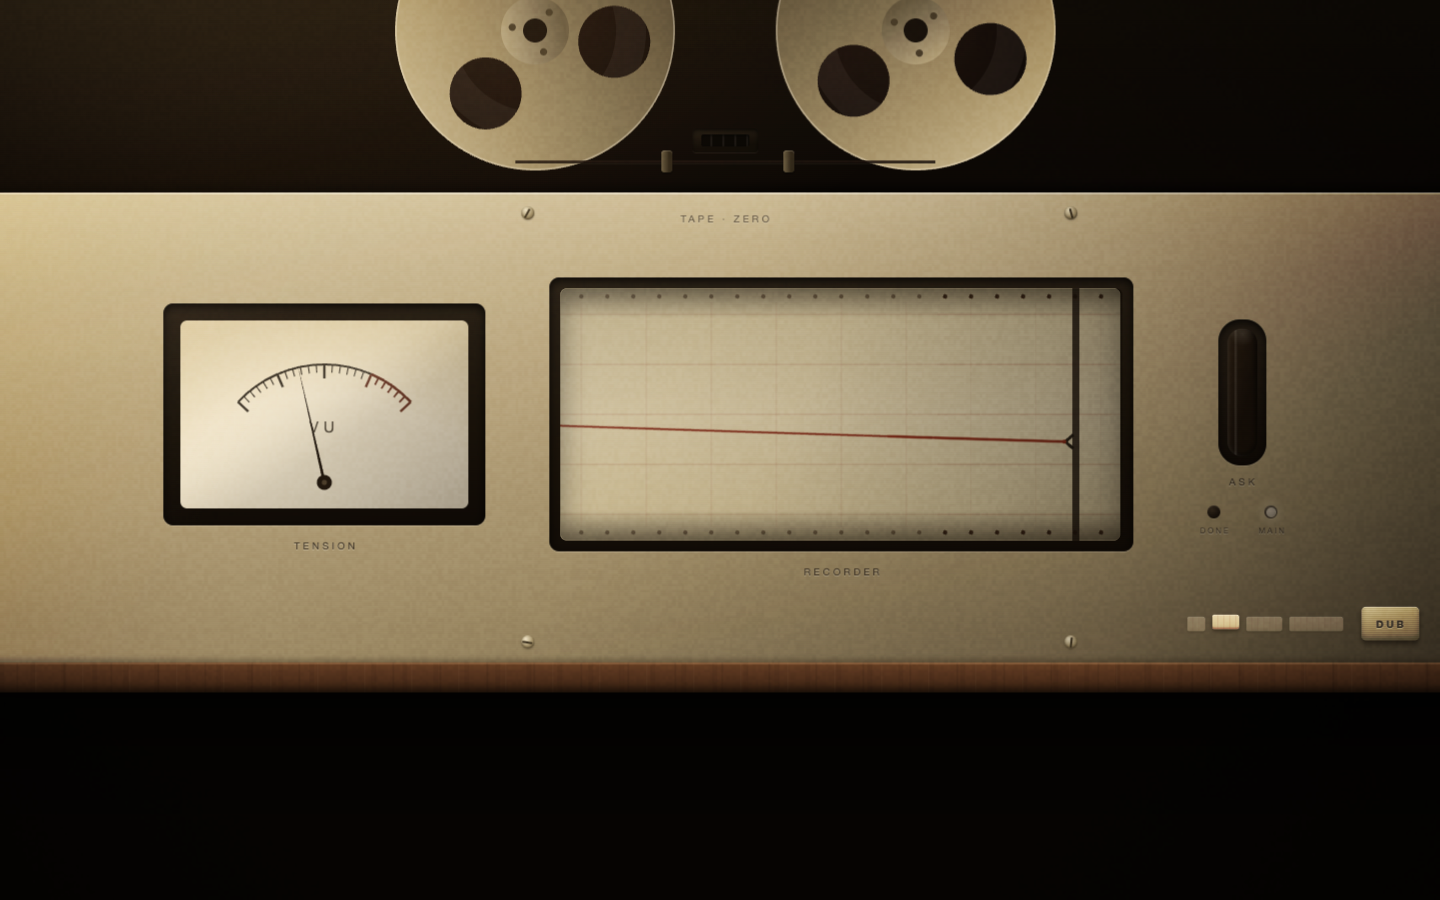
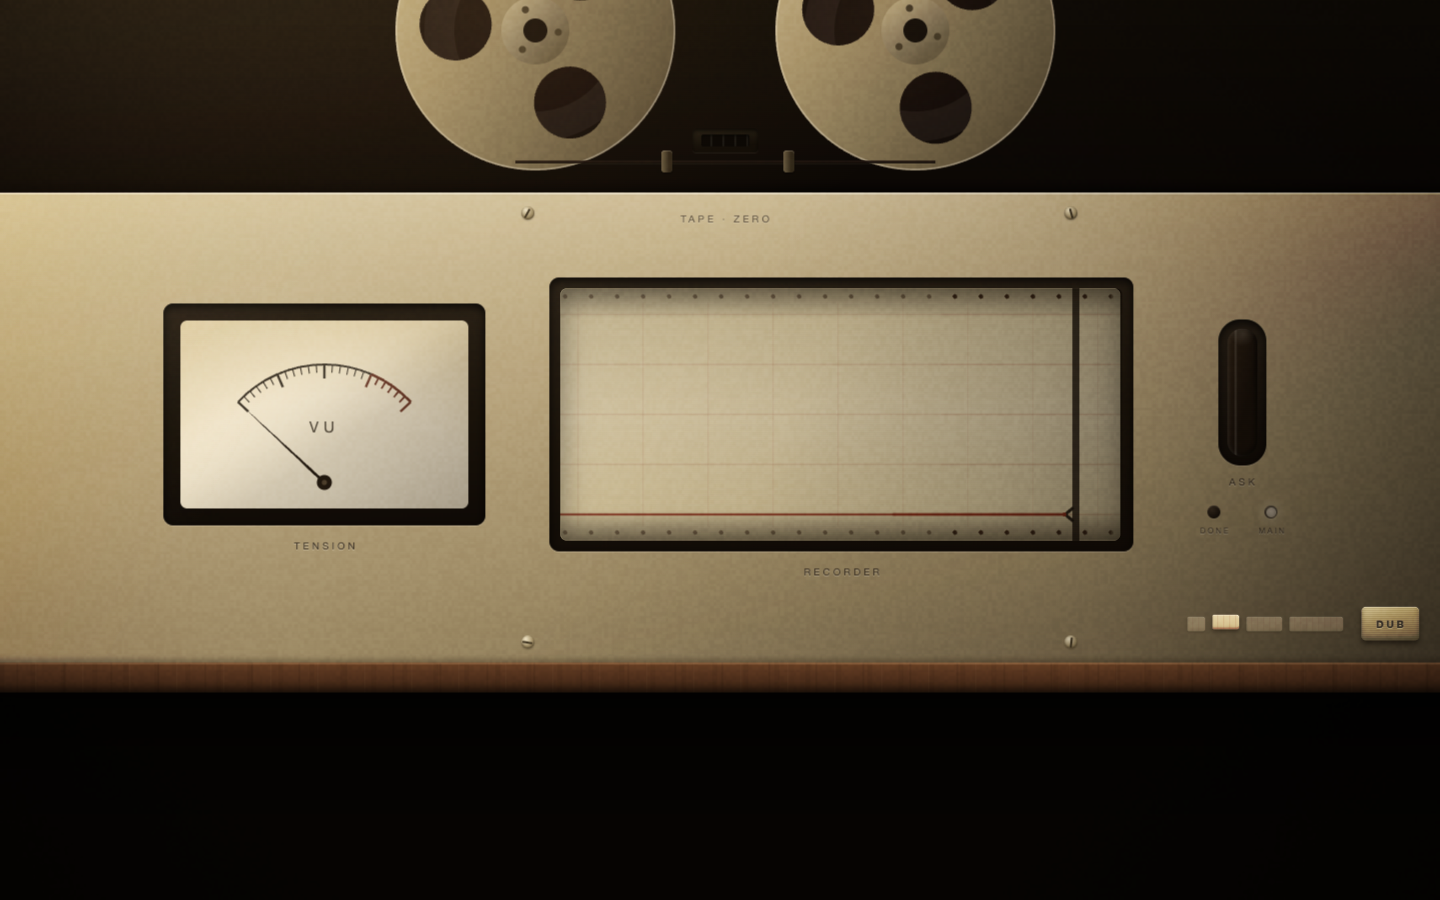
轨甲 己-2：rebase 新 main（吸收轨丙）＋姊妹条款双形态归档补签
DECREE-004 己-2 执行：
- git rebase main（79137a3，含轨丙 B4 factory 回退＋脱敏契约 v1＋audit/repro）零冲突
  （围栏零文件重叠）；代码字节与原提交一致。金测试 133/133（128 轨丙后+5 LIVE，零回潮）。
- 姊妹条款（003 丁-②）双形态归档：B4 合入 serve.mjs 后，干净 worktree 与 npm pack
  皆经 ~/.foley/records/factory/ 回退**自动放唱片，无需手拷 mp3**——
  · shots-clean/：干净树 live/replay 双路 Still Life 真上桥 peak 0.154/0.146，唱片上桥×2
  · shots-pack/：包内 wav/mp3 全缺席，双路 Still Life 真上桥 peak 0.143/0.157，唱片上桥×2
  对比 B4 前打包态 recordInfo=None（纯合成）——B4×热装合力兑现。
  旧 shots/（B4 前 dev 无唱片）、shots-record/（手拷 mp3）删除取代。
- REPORT/FEEDBACK 更新：证据表重列、兵器申报改判入册（004 乙照准立案）、复跑手册去手拷步。

发现·非轨甲（报请操作员/轨丙）：main 自带 tsc 3 处 TS7006 于轨丙
golden/redaction-contract.test.ts:42/44（未标注参数类型）——己-5 合后 tsc 复跑拦路项，
围栏纪律不代修他轨文件，据实上报。

diff --git a/audit/a-live/REPORT.md b/audit/a-live/REPORT.md
@@ -1,7 +1,7 @@
 # 轨甲交付报告 · 主水管（live 流式出声）
 
-- **奉令**：《派生手册》§3 轨甲卡＋《第三号手令》丁-轨甲修订（总线一元论拆除；好资产保护清单；机器代理验收增补）＋《第二号手令》增补一（worktree 建制）/增补三（接口先行）。
-- **施工环境**：worktree `track/a-live`（基于 main=`8c7a198`）；代码锚 `e7e28d7`。
+- **奉令**：《派生手册》§3 轨甲卡＋《第三号手令》丁-轨甲修订（总线一元论拆除；好资产保护清单；机器代理验收增补）＋《第二号手令》增补一（worktree 建制）/增补三（接口先行）＋《第四号手令》己-2（rebase 新 main·姊妹条款双形态归档）。
+- **施工环境**：worktree `track/a-live`；**己-2 已 rebase 至新 main=`79137a3`**（吸收轨丙 B4 factory 回退＋脱敏契约 v1＋audit/repro）；代码锚 `d5340a9`＋`87f2928`（rebase 后，代码字节与原 `e7e28d7`/`875f6d5` 一致）。
 - **真实材料申明**：浏览器验收的 live 模式尾随**本机最新真实会话**（即本施工会话自身，serve `--latest` 默认解析）；打包形态用其副本（临时目录，即用即删）。storm 仅出现在"回放保绿"回归项（G8 正门参数原样）。
 - **边界申明**：写面=`sound/`（livebridge 新增、offline 耳膜修真）＋`stage/js/`（soundbridge 重铸、main 接线、demo-boot 适配）＋`golden/live-sound.test.ts`＋本目录。**graph.js/core.js 一行未动；serve.mjs 零改动**（避让轨丙 B4 手术台）；协议契约 v1 零增改。
 - **诚实界限**：本报告一切"出声"结论以 master 总线旁挂 AnalyserNode 实测 RMS 为证（机器代理管回归）；**人耳终审权在船长/审计庭**（验收最高法，需真人录音）。
@@ -32,19 +32,23 @@
 
 ## 二、证据表
 
+> **己-2 后证据全部基于新 main=`79137a3`**（含轨丙 B4 factory 回退）。旧证据（`shots/`＝B4 前 dev 无唱片、`shots-record/`＝手拷 mp3）已被 `shots-clean/`（B4 后干净树自动放唱片）取代删除——B4 前须手拷、B4 后自动，此即姊妹条款兑现。
+
 | # | 判据 | 结果 | 证据 |
 |---|---|---|---|
-| 1 | 金测试全量（好资产回归门） | **121/121 全绿**（116 在库＋5 新 LIVE 门），tsc 干净 | `npm test`（21.5s）；在库 55/57/59 唱片机芯全过=引擎零殃及 |
+| 1 | 金测试全量（吸收轨丙后回归门） | **133/133 全绿**（128 轨丙后在库＋5 新 LIVE 门），我 5 条零回潮 | `npm test`（21.2s）；在库 55/57/59 唱片机芯全过=引擎零殃及 |
 | 2 | LIVE-1 命门机器代理 | 流式 60s 两窗 RMS>−40dBFS（合成退路条件） | `golden/live-sound.test.ts`（离线确定性，回归门常设） |
 | 3 | LIVE-2 双通道 | pluck onset 落网格线 ±20ms 且不早于到达；ASK onset 20.32s 直通（网格线 20.54 之前） | 同上（波形 onset 断言） |
-| 4 | 浏览器 live 出声（dev 形态） | **手势后 0.25s 首声**，RMS avg 0.059/peak 0.085，PAGEERROR=0；pre-gesture `sound=undefined`→post 在场 | `repro/live-rms.mjs` → `shots/verdicts.json` |
-| 5 | 回放保绿（好资产） | storm@8× 首声 0.25s，avg 0.059（RECON 基线 0.066 同量级） | 同上 Part B |
-| 6 | 唱片层＋热装 | live/replay 双路 recordInfo=Still Life 真上桥，console「唱片上桥」×2，peak 0.142（RECON 旁证 0.139 同量级）；唱片在位作曲四层退场（avg 回落） | `shots-record/`（vendored 位形态，mp3 即放即删） |
-| 7 | 打包形态（产品条件） | wav/mp3 全缺席＋真实会话副本：live 首声 0.25s，avg 0.056（纯合成房间层） | `shots-pack/`；npm pack→解包→FOLEY_PROJECTS 实跑 |
-| 8 | 1× 长跑（机器侧） | **600s/300 采样 soundRatio=1.0（零死寂）**；rowsMax 8162≤8192 行帐有界；pageErrors=0 | `repro/long-run.mjs` → `shots-long/long-verdict.json` |
-| 9 | 音画同源 | 结构性：画声同吃一路 feedRaw（同一根总线）；运行时：声侧收包 12018 vs 画侧铺纸 12050，**avRatio=0.9973**（差 0.27%=读数时间窗误差量级） | 代码 `main.js`＋长跑证据 |
+| 4 | **姊妹条款·干净 worktree**（己-2 补签） | 未手拷 mp3，B4 factory 回退：live/replay 双路 **Still Life 真上桥**（peak 0.154/0.146，「唱片上桥」×2），首声 0.25s，PAGEERROR=0 | `repro/live-rms.mjs` → `shots-clean/verdicts.json` |
+| 5 | **姊妹条款·npm pack**（己-2 补签） | 包内 wav/mp3 全缺席＋B4 factory 回退＋真实会话副本：双路 **Still Life 真上桥**（peak 0.143/0.157，「唱片上桥」×2），首声 0.25s | `repro/live-rms.mjs --root <解包>` → `shots-pack/verdicts.json` |
+| 6 | 回放保绿（好资产） | storm@8× 首声 0.25s（两形态 Part B 均绿，RECON 基线同量级） | `shots-clean`/`shots-pack` Part B |
+| 7 | 1× 长跑（机器侧，代码未变 carry forward） | **600s/300 采样 soundRatio=1.0（零死寂）**；rowsMax 8162≤8192 行帐有界；pageErrors=0 | `repro/long-run.mjs` → `shots-long/long-verdict.json` |
+| 8 | 音画同源 | 结构性：画声同吃一路 feedRaw（同一根总线）；运行时：声侧收包 12018 vs 画侧铺纸 12050，**avRatio=0.9973**（差 0.27%=读数时间窗误差量级） | 代码 `main.js`＋长跑证据 |
+| 9 | tsc（**发现·非轨甲**） | 我方文件净；**main 自带 3 处 TS7006** 于轨丙 `golden/redaction-contract.test.ts:42/44`（未标注参数类型）——己-5"合后 tsc 复跑"拦路项，报请轨丙/操作员修（围栏纪律：不代修他轨文件） | `npm run typecheck` |
 
-## 三、兵器申报（Tone.js 偏离，候架构师复裁）
+## 三、兵器申报（Tone.js 偏离——**架构师已照准立案，DECREE-004 乙**）
+
+> **裁决落地（004 令乙）**：偏离成立照准。增补二就地修正为"目的入宪·手段解绑"——音频主钟／网格量化／前瞻调度三目的为宪法要求，实现载体不指定；在库引擎原生满足且身负金测＋LUFS 定标，引 Tone 与 003 保护条物理冲突时**保护条优先**。Tone.js 移入冰箱为备芯，换芯点＝`sound/livebridge.js` 单文件（已记档）。案法确立：**偏离必申报·申报必附换芯点**，本报为全场范本格式。以下为原申报留档。
 
 增补二裁"音频地基采用 Tone.js"；003 令丁-轨甲改口"放行确认（备胎条款不触发）"并同令钉入**好资产保护清单**（graph/core 引擎本体保绿）。实施发现两令在物理上不可同时满足：
 
@@ -61,21 +65,22 @@
 5. **S2 网格采样 vs producer 钟 ppm 级偏斜**：行帐锚到达刻，长程无累积（长跑仪 avRatio 兜底盯防）。
 6. **唱片热装→作曲四层退场**存在 ≤1s（前瞻窗）+slew 的过渡窗，fade 平滑覆盖。
 
-## 五、复跑手册
+## 五、复跑手册（己-2 后，B4 在 main）
 
 ```
-npm ci && npm test                                    # 121/121（含 LIVE-1..5）
-node audit/a-live/repro/live-rms.mjs                  # dev 形态：live+replay 双证（需 stage/tools 装 playwright-core＋本机 ms-playwright chromium）
-cp ~/.foley/records/factory/still-life.mp3 sound/records/ && node audit/a-live/repro/live-rms.mjs --out audit/a-live/shots-record && rm sound/records/still-life.mp3   # 唱片层
-npm pack → 解包 → node audit/a-live/repro/live-rms.mjs --root <解包 package 目录>            # 打包形态
+npm ci && npm test                                    # 133/133（128 轨丙后 + 5 LIVE）
+node audit/a-live/repro/live-rms.mjs --out audit/a-live/shots-clean   # 干净 worktree：B4 factory 回退自动放唱片（需 ~/.foley/records/factory 有唱片＝foley records 已下载；stage/tools 装 playwright-core＋本机 ms-playwright chromium）
+npm pack → 解包 → node audit/a-live/repro/live-rms.mjs --root <解包 package 目录> --out audit/a-live/shots-pack   # 打包形态：同经 B4 factory 回退
 node audit/a-live/repro/long-run.mjs --sec 600        # 1× 长跑仪
 ```
-收摊纪律：脚本自起自收 serve（直属子进程 SIGINT），全程无 pkill 模式串（003 令甲.3）。
+姊妹条款不再需手拷 mp3——B4（serve `/records/**` factory 回退）合入后，干净树与打包态皆自动经 `~/.foley/records/factory/` 取唱片。收摊纪律：脚本自起自收 serve（直属子进程 SIGINT），全程无 pkill 模式串（003 令甲.3）。
 
 ## 六、候项
 
-1. **候轨丙 B4 合入后 rebase**：姊妹条款"`foley records` 下载完成后 deck 必须真放出厂唱片（干净 worktree＋打包形态双验）"——record 路径与热装已双证（证据 6：vendored 位形态），差 serve factory 回退一环；B4 落地即复跑 `live-rms.mjs` 两形态补签。
-2. **候审计庭**：本 worktree 内真实验收＋真人录音（验收最高法）；RMS 器具（`sb.rms()`）已内建，与戊-2 常设回归仪同口径。
-3. **报请架构师**：§三兵器申报复裁；增补一.3 `.worktreeinclude` 全场尚无人落地（卡外，仅报请）。
+1. ~~候轨丙 B4 合入后 rebase 补签姊妹条款~~ **已完成（己-2）**：rebase 至 main=`79137a3`，两形态双证 Still Life 真上桥（证据 4/5）。
+2. **候审计庭**（己-3）：本 worktree 内机器面 RMS 60s 挂表＋长跑仪抽查（`sb.rms()` 已内建，与戊-2 常设回归仪同口径）；**人证面留船长专场真耳**（庚-1，验收最高法，需真人录音）。
+3. **合龙微单**（己-5）：针落接缝一行——轨乙 connect 的 SSE `wired` 事件→声桥放一声针落，候两轨合入后接线（轨甲执行，审计抽查）。
+4. **报请操作员/轨丙**：main 自带 tsc 3 处 TS7006（轨丙 `redaction-contract.test.ts`）——己-5"合后 tsc 复跑"绿的拦路项，围栏纪律不代修。
+5. **记案照准（004 令丁）**：已知限制五条（回放画停声继 v1 维持／repoKey 恒 default 入冰箱／seed 改 mode／热装 ≤1s／8× STUCK 墙钟）架构师逐项照准，无需再改。
 
-（轨甲施工终端 · 2026-07-07）
+（轨甲施工终端 · 2026-07-07 交付；2026-07-07 己-2 rebase 补签）

diff --git a/FEEDBACK-SOUND.md b/FEEDBACK-SOUND.md
@@ -13,6 +13,21 @@
 
 **候**：①轨丙 B4 合入后 rebase，复跑姊妹条款双形态（`foley records` 下载后 deck 真放出厂唱片——record 路径与热装已先证于 vendored 位形态）；②审计庭本 worktree 真实验收＋真人录音（人耳终审）；③`.worktreeinclude`（增补一.3）全场未落地，报请架构师定归属。
 
+### 己-2 补记（合龙令 004，rebase 新 main＋姊妹条款归档，2026-07-07，锚 d5340a9+87f2928）
+
+**结论**：己-2 执行完毕。`git rebase main`（79137a3，已吸收轨丙 B4 factory 回退＋脱敏契约 v1＋audit/repro）**零冲突**（轨甲/轨丙围栏零文件重叠：sound/stage.js/golden.live-sound/audit.a-live vs serve.mjs/golden.b4+contract/docs.canon/audit.repro）；rebase 后我方代码字节与原提交一致。金测试 **133/133**（128 轨丙后 + 5 LIVE，零回潮）。
+
+**姊妹条款双形态归档补签**（DECREE-003 丁-②"deck 必须真放出厂唱片，干净 worktree 与打包形态双验"）：B4 合入 serve.mjs 后，**两形态皆经 `~/.foley/records/factory/` 回退自动放唱片，无需再手拷 mp3**——
+- 干净 worktree：live/replay 双路 Still Life 真上桥（peak 0.154/0.146，「唱片上桥」×2，首声 0.25s，零页错）→ `audit/a-live/shots-clean/`
+- npm pack（包内 wav/mp3 全缺席）：双路 Still Life 真上桥（peak 0.143/0.157，「唱片上桥」×2）→ `audit/a-live/shots-pack/`
+- 对比 B4 前：打包态曾 `recordInfo=None`（纯合成房间层）；B4×热装合力此为兑现。旧 `shots/`（B4 前 dev 无唱片）、`shots-record/`（手拷 mp3）已删除取代。
+
+**兵器申报改判入册（004 令乙）**：Tone.js 偏离照准立案——目的入宪·手段解绑，保护条优先，Tone 移冰箱备芯，换芯点 `sound/livebridge.js` 记档；本报为"偏离必申报·申报必附换芯点"全场范本。
+
+**发现·非轨甲（报请操作员/轨丙）**：main 自带 tsc 3 处 TS7006 于轨丙 `golden/redaction-contract.test.ts:42/44`（未标注参数类型）——己-5"合后 tsc 复跑"绿之拦路项，围栏纪律不代修他轨文件，据实上报。
+
+**候**：审计庭己-3 验收（机器面本轨 RMS 挂表＋长跑抽查／人证面船长专场真耳）→ 签章后合 track/a-live（庚序末位）；合龙微单己-5 针落接缝（SSE `wired`→声桥针落）候两轨合后接线。
+
 ---
 
 ## M2.5 §C 交付（发布物料轮·SOUND 轻装，2026-07-06，d384870）